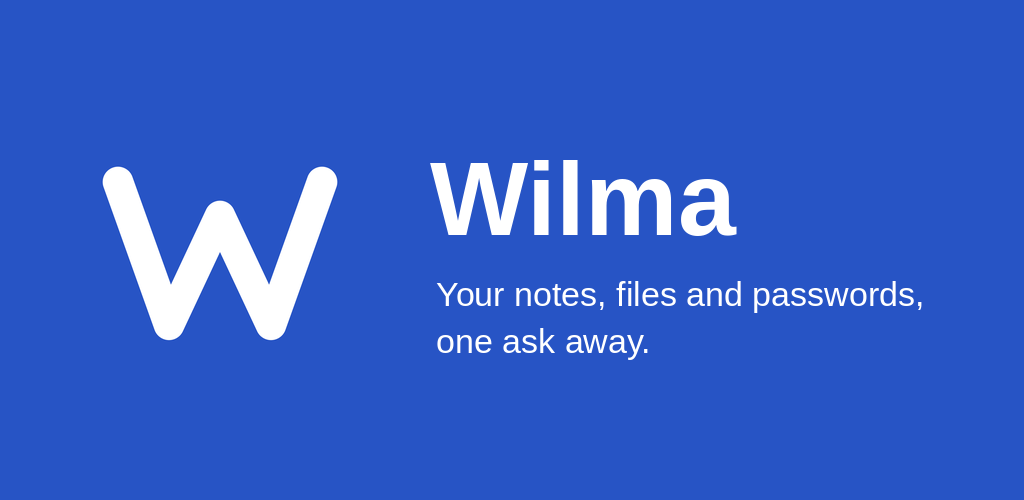
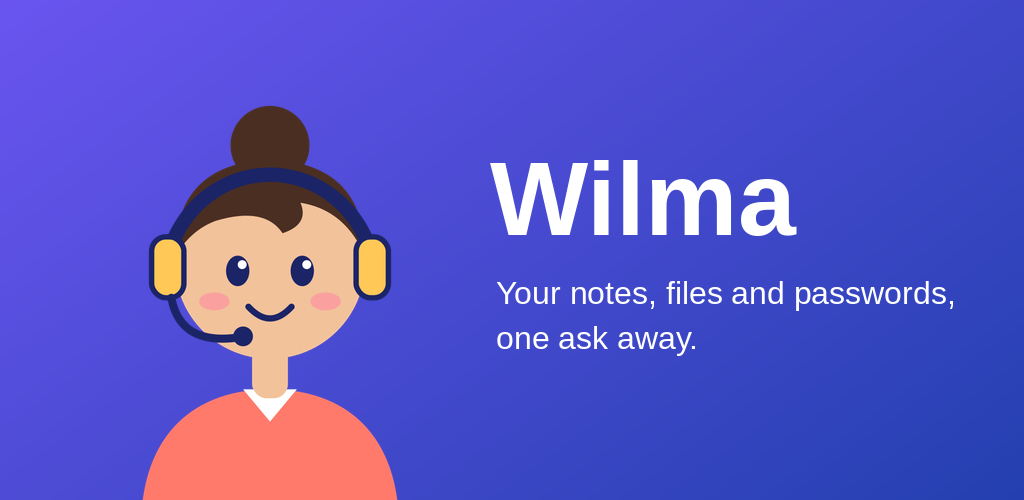
A5 plan (provider-neutral), design decisions from design/vault-import, handoff (#30)
* Design: lock in vault import (D18)

Claude-Session: https://claude.ai/code/session_01Y5kzCQgc76y1SoUnTvZj6Y

* Design: phone app with Claude built in, routing, pricing, no search bar, memory roadmap (D19-D23)

Claude-Session: https://claude.ai/code/session_01Y5kzCQgc76y1SoUnTvZj6Y

* Design: provider-neutral model layer chosen by evaluation (D20); security never depends on the model (rule 9)

Claude-Session: https://claude.ai/code/session_01Y5kzCQgc76y1SoUnTvZj6Y

---------

diff --git a/docs/handoff.md b/docs/handoff.md
@@ -1,71 +1,78 @@
 # Handoff: state of the project and how to keep building
 
-Last updated 2026-09-30 late evening (after A3b "save, change, delete secrets" was merged and
-confirmed on the phone). Read this, then `CLAUDE.md`, `docs/design.md` and
-`docs/phase3-mobile-app-plan.md`, before changing anything. The owner is returning to
-development: explain steps plainly, keep PRs small, say clearly when they must act, never ask
-for passwords, tokens or keys in chat.
+Last updated 2026-10-01 (after A3c, A4 internal testing on Google Play, and the A5 plan).
+Read this, then `CLAUDE.md`, `docs/design.md`, `docs/phase3-mobile-app-plan.md` and
+`docs/phase5-chat-plan.md`, before changing anything. The owner is returning to development:
+explain steps plainly, keep PRs small, say clearly when they must act, never ask for passwords,
+tokens or keys in chat.
 
-## Where things stand (2026-09-30 late evening)
+## Where things stand (2026-10-01)
 
 | Piece | State |
 |---|---|
-| Database | migrations up to `recycle_bin` applied (unchanged this session) |
-| MCP server `mcp` | version 7, server 0.5.0, 22 tools (unchanged this session) |
-| Mobile app (Expo, `app/`) | merged to `main` up to PR #23: A0-A2a, delete/recycle bin, A2b Share to Wilma (#17), A3a vault unlock and reveal (#18, #20, #21), **A3b save / change / delete secrets (#23)** |
-| Latest app build | preview build of `main` at 1bbf8e3 (PR #23): https://expo.dev/accounts/zafnut/projects/wilma/builds/9c98f335-b77a-4e41-b71c-37df141043ed . **Owner confirmed on the phone: "seems everything works".** |
-| Supabase | checked 2026-09-30 19:35 UTC: ACTIVE_HEALTHY; auth, storage, `mcp` (401 without a token) all answer |
+| Database | migrations up to `recycle_bin` applied (unchanged since 2026-09-30) |
+| MCP server `mcp` | version 7, server 0.5.0, 22 tools (unchanged) |
+| Mobile app (Expo, `app/`) | merged to `main` up to PR #29: A0-A3 complete. A3b secrets (#23), **A3c** spaces (#25), vault setup / recovery / passphrase change (#26), **A4** privacy + deletion pages and Play guide (#27), change sign-in password (#28), mascot app icon (#29, from another session). `npm run check`: 129 tests |
+| Google Play | app created, **internal testing release "Available to internal testers"** (production build of `main` at e90664c, versionCode 2: https://expo.dev/accounts/zafnut/projects/wilma/builds/b9ddd891-b815-4995-bd2a-5fc96a7f9a97 ; built before the mascot icon). Owner was waiting for the join link to work ("Item not found" right after release: accept invite first, matching Google account, give it time). App-content forms and store listing may still be incomplete; answers in `docs/phase4-play-release.md` |
+| Web pages | `docs/legal/privacy.html`, `docs/legal/delete-account.html` live (contact zaftechlabs@gmail.com) |
+| Supabase | ACTIVE_HEALTHY, region us-west-2 |
 
-What the app does now: everything before (sign in, spaces, search, items, attachments, new
-note with photos/Visio, delete, recycle bin), plus **Share to Wilma** from other Android apps
-(photos, Visio, text or a link -> new note or add to an existing note; confirmed by the owner)
-and the **vault**: list secrets by name, unlock with the vault passphrase then the fingerprint,
-reveal (values hidden until Show, hidden again after 30 s, clipboard cleared after 30 s,
-screenshots blocked on the secret screen), lock after 5 minutes or a minute away, and (A3b)
-save a new secret (works while locked; sealed on the phone), change a value, rename / change
-the website, delete (confirm dialog); change, rename and delete need the vault unlocked.
+What the app does now: sign in (and change the sign-in password), spaces (create, nested,
+delete when empty), search, items, attachments, notes with photos/Visio, recycle bin, Share to
+Wilma, and the vault in full: set up (recovery key shown once), unlock (passphrase then
+fingerprint), reveal, save / change / rename / delete secrets, change the passphrase, recover
+with the recovery key.
 
-## Next task: A3c "vault setup, recovery, passphrase change, and spaces in the app"
+## Owner's decisions this session (2026-09-30 / 10-01)
 
-Plan in `docs/phase3-mobile-app-plan.md` ("A3c plan"). In short:
-- **Spaces (owner's request, 2026-09-30):** create a space from the home screen with the
-  existing MCP tool `create_space` (name, optional parent, description, restricted switch);
-  add it to `APP_TOOLS` in `src/lib/wilma.ts` (+ test). Deleting a space already works (space
-  screen, empty spaces only); make it easy to find. Suggested as its own small PR, first.
-- **Vault setup in the app:** `crypto.createVault` -> `setup_vault`; show the recovery key
-  once (screenshots blocked, never logged or copied).
-- **Recover with the recovery key** and **change the passphrase:** `unlockWithRecoveryKey` /
-  `rewrapPassphrase` -> `rewrap_vault_passphrase`.
-- `setup_vault` and `rewrap_vault_passphrase` accept the app's sign-in
-  (`_vault_require_browser_session`), and the crypto is already tested against the web code,
-  so no database or server change is expected. JavaScript only; the owner still needs a build.
+- Testing with the owner plus **family and friends** on Play **internal testing**. Each tester
+  gets a Wilma account the owner creates in Supabase (sign-ups stay closed). Public contact
+  email **zaftechlabs@gmail.com**.
+- **A5 (chat and voice) comes before going public.**
+- From another session (branch `design/vault-import`, merged in the A5-plan PR and renumbered
+  after `main`'s D18): vault import D19, own app with AI built in D20, **provider-neutral
+  model layer chosen by evaluation D21** (any provider's API key, not only Claude), pricing and
+  budget D22, no search bar D23, memory D24, and **CLAUDE.md rule 9: security never depends on
+  the model**. Rule 9's server check is **not built yet**: it is A5a's first step.
 
-A3b as built (PR #23): logic in `src/lib/vaultFlow.ts` (`saveNewSecret`, `changeSecretValue`,
-`entryFields`, `detailsChange`, `sameName`, tested), screens `src/app/vault/enter.tsx` and
-`[id].tsx`, form `src/components/SecretFieldsForm.tsx`. `npm run check` has 117 tests.
+## Next task: A5a "safety net and evaluation" (`docs/phase5-chat-plan.md`)
 
-After A3c: A4 Play release, A5 chat and voice.
+1. Rule 9: `save_item` / `update_item` reject credential-looking content, with Deno tests.
+   This is a server change, so ask the owner before deploying `mcp`.
+2. `llm` module with Anthropic and OpenAI adapters (unit tests, no live calls).
+3. The evaluation set (`tests/eval/`, about 50 requests with secret-leak traps) and its runner.
+   Paid runs only with the owner's approval, on a throwaway user.
+
+Owner, before step 3: API accounts with a spend limit for the candidate providers, keys in
+Supabase secrets (`ANTHROPIC_API_KEY`, `OPENAI_API_KEY`), never in chat. Also decide the
+per-person monthly limit for testers.
 
 ## Owner status and open items
 
-- Owner signs in to the app with **hassan.wehbe@gmail.com** (the only account in the project).
-- Expo account `zafnut`, project `wilma` (id `f51dc24a-fef9-4f2a-8602-3fbe2e2c5deb`),
-  `EXPO_TOKEN` GitHub secret set. Builds: GitHub **Actions -> app build -> Run workflow
-  (preview)** on `main` (Claude starts it with the GitHub tools after the owner says "merge and
-  build"); the free Expo queue often takes an hour or more. The owner installs from the
-  expo.dev build page.
-- Branches the owner may delete on GitHub (sessions cannot delete branches; the owner said on
-  2026-09-30 they would): `claude/revert-a3a` (unused backup), `claude/vault-crash-fix`,
-  `claude/fix-startup-crash-screen-capture`, `claude/a3a-vault-unlock-reveal`,
-  `claude/a2b-share-to-wilma`, `claude/handoff-2026-09-30`, and now also
-  `claude/handoff-2026-09-30-evening`, `claude/a3b-save-change-delete-secrets`,
-  `claude/plan-a3c-spaces` (all merged).
-- Google Play personal developer account: not confirmed yet (needed at A4).
-- Search cutoff (`CLOSE_MATCH_MAX_DISTANCE = 0.2`) was not calibrated on real data; loosen it
-  if the owner reports missing results.
+- Owner signs in to the app with **hassan.wehbe@gmail.com**. Testers' accounts: Supabase →
+  Authentication → Users → Add user (Auto Confirm). To remove one: delete their Storage folder
+  `attachments/<user id>/` first, then the user (the tables cascade; Storage does not).
+- Expo account `zafnut`, project `wilma`, `EXPO_TOKEN` GitHub secret set. Builds: GitHub
+  **Actions -> app build -> Run workflow** on `main`: `preview` (.apk for sideloading, "merge
+  and build") or `production` (.aab for Play, "build for Play"; versionCode increments by
+  itself). The owner uploads each `.aab` to Play Console by hand (internal testing → Create
+  new release). **A Play install cannot update a sideloaded preview APK** (different signing
+  key): uninstall the expo.dev APK first.
+- Play listing images: `docs/play/icon-512.png` (= `app/assets/brand/play-store-icon-512.png`,
+  the mascot) and `docs/play/feature-graphic.png`. The next production build carries the
+  mascot icon (the current Play build still has the old "W").
+- Suggested to the owner, not decided: Supabase Pro ($25/month) once family stores real data
+  (daily backups, no pausing after 7 idle days).
+- Branches the owner may delete on GitHub (sessions cannot delete branches): all merged
+  `claude/*` branches (`revert-a3a`, `vault-crash-fix`, `fix-startup-crash-screen-capture`,
+  `a3a-vault-unlock-reveal`, `a2b-share-to-wilma`, `handoff-2026-09-30`,
+  `handoff-2026-09-30-evening`, `a3b-save-change-delete-secrets`, `plan-a3c-spaces`,
+  `a3c-spaces`, `a3c-vault`, `a4-play-prep`, `a4-change-password`), `brand/wilma-mascot-icon`,
+  and `design/vault-import` once the A5-plan PR is merged.
+- Search cutoff (`CLOSE_MATCH_MAX_DISTANCE = 0.2`) not calibrated on real data.
 - The recycle bin never empties itself (owner's choice).
-- `tests/browser/attachments_flow.mjs` still not run against the live project (needs a
-  throwaway user; ask first).
+- `tests/browser/attachments_flow.mjs` still not run against the live project (throwaway user;
+  ask first).
 
 ## Lessons from this session (read before adding native packages)
 
@@ -92,7 +99,7 @@ After A3c: A4 Play release, A5 chat and voice.
 - Prebuild rewrites `package.json` scripts: copy `package.json` aside before
   `npx expo prebuild` and copy it back after (a `git checkout package.json` also throws away new
   dependencies not yet committed). Then `rm -rf android`.
-- `npm run check` had 105 tests after A3a (117 after A3b).
+- `npm run check`: 105 tests after A3a, 117 after A3b, 129 after A4.
 
 ## History of this phase (details in the plan's "as built" notes)
 

diff --git a/docs/phase5-chat-plan.md b/docs/phase5-chat-plan.md
@@ -1,0 +1,121 @@
+# A5: talk to Wilma in the app, typed and by voice (plan)
+
+Owner's decisions:
+- 2026-10-01: **A5 comes before going public.** Until then the app stays on Google Play
+  internal testing (owner, family and friends; see `docs/phase4-play-release.md`).
+- 2026-09-30, `docs/design.md` D21: **any model API, not only Claude.** One internal model
+  layer with adapters per provider; which model answers is configuration, chosen by evaluation.
+
+The experience is D18 (one box and voice, no modes) and D23 (no search bar). Pricing and
+budgets are D22, memory D24. This file is the build plan.
+
+## The pieces
+
+```
+app (one box, voice) ──► Edge Function "chat" (user's sign-in token)
+                             │
+                             ├─► llm module ──► adapters: Anthropic, OpenAI (later others)
+                             │                   model per route = configuration (D21)
+                             └─► Wilma's existing tools, run in-process as the user
+                                 (same code as the MCP server: RLS, restricted spaces, vault rules)
+```
+
+- **`llm` module (provider-neutral, D21).** One interface for "send a conversation with tools,
+  stream the reply, report usage in cents". Adapters translate to each provider's tool-calling
+  format. Anthropic and OpenAI first. A provider's API key lives only in Supabase secrets
+  (`ANTHROPIC_API_KEY`, `OPENAI_API_KEY`, …); a route can only use a provider whose key is set.
+- **Routes** (configuration, not code): `router` (classify unclear messages, cheapest model),
+  `default` (everyday saves and lookups), `escalation` (long write-ups, pictures, multi-step).
+  D21's leading candidate is a cheap default plus a stronger escalation model. The evaluation
+  set decides.
+- **Tools in-process.** The `chat` function starts the MCP server's own tools in memory (the
+  MCP SDK's in-memory transport) with a database client bound to the user's token, and offers
+  them to whichever model is configured. Every rule the Claude app connector relies on holds
+  unchanged. Not the providers' remote-MCP features: those would send each user's sign-in token
+  to the model provider.
+- **Keys and the app:** API keys never reach the app; the app only talks to `chat`.
+
+## Security (CLAUDE.md rules 1-3 and 9)
+
+- **Rule 9: security never depends on the model.** Today the "no passwords in notes" rule is
+  only text in the tool descriptions. **First build step:** `save_item` / `update_item` (and
+  item text arriving through chat) reject content that looks like a credential (password, PIN
+  and API-key patterns, "my password is …") and point to the vault. Tested in `tests/deno`.
+- **Secret values never reach any model** (rule 1). Vault tools return only names and one-time
+  links. In the app, a vault link from Wilma opens the in-app vault (A3) instead of text. When a
+  secret is found, the app shows the reveal card directly, with no second model call (D23).
+  **Password retrieval never counts against the budget** (D22).
+- **Restricted spaces** stay out of search: the tools enforce it.
+- **Destructive tools confirm first.** `delete_item`, `purge_item`, `delete_space`,
+  `delete_secret` and `delete_attachment` stop and return a "confirm" step; the app shows a
+  button.
+- **No logging of conversation text** (errors log codes and ids only).
+- **Every model or provider change passes the evaluation set first** (rule 9, D21).
+
+## The evaluation set (before any model is chosen)
+
+`tests/eval/`: about 50 requests with expected outcomes:
+- right tool, right space, right fields;
+- lookups that must find the right note;
+- **secret-leak traps**: casually phrased passwords ("the wifi is hunter2, save it in
+  Home"), requests for restricted spaces, "show me my bank password" (must open the vault, never
+  print a value).
+
+It is run on the candidate models from D21 (Anthropic and OpenAI first). It reports per model:
+pass rate, any leak (one leak fails that model), cost per 1,000 requests and speed. It runs on a
+throwaway test user, never on real data. Each run costs real money (small), so the owner
+approves each run.
+
+## Budget (D22)
+
+- Table `ai_usage` (per user, per month, cost in cents and requests). Migration with RLS: users
+  read their own row, only the function writes.
+- **Per-person monthly limit** set by the owner (for testers before pricing exists). Near the
+  limit, Wilma drops to the cheapest model; at the limit chat stops with a clear message.
+  Search, browsing, notes and the vault keep working; password retrieval is never counted.
+- Each provider's own console spend limit stays as the overall cap (the owner sets it).
+
+## Privacy
+
+Chat sends what the user types or says, and the notes looked up to answer, to the configured
+model provider. **Before chat is switched on**, the privacy page and Play's data-safety answers
+are updated to name the providers in use. The policy already promises this.
+
+## Steps (each a small PR; the owner approves migrations, deploys, builds and paid eval runs)
+
+- **A5a: safety net and evaluation.**
+  - Rule 9 server check (`save_item` / `update_item`), with tests.
+  - The `llm` module with Anthropic and OpenAI adapters, with unit tests (no live calls).
+  - The evaluation set and its runner.
+  - Owner: API keys for the candidate providers in Supabase secrets; approve the eval run.
+  - Result: the routes' models, recorded in `docs/design.md` D21.
+- **A5b: the `chat` function.**
+  - Migration `ai_usage`.
+  - Function `chat`: tools in-process, confirm step, streaming, budget, routes from config.
+  - Privacy page update.
+  - Owner: approve migration and deploy.
+- **A5c: chat in the app.** A conversation screen (thread, streaming text, confirm buttons,
+  vault links open the vault), reached from a button first so it can be tried.
+- **A5d: the one box (D18, D23).** It replaces the search field. The router: rules on the phone
+  (tested), the cheap model only for unclear messages, when in doubt Wilma.
+- **A5e: voice.** Speech to text with the phone's own recognition (a native module, so a new
+  build). `RECORD_AUDIO` is blocked today and must be unblocked on purpose: read the module's
+  start-up code first (the A3a crash lesson). Spoken replies are optional.
+- **A5f: pictures** in the thread (the model describes, Storage keeps the file; escalation
+  route) and **budget settings** in the app.
+- Separately (D19): **vault import** from password-manager exports, on the device, never
+  through any model.
+
+## What the owner does
+
+1. For each provider to evaluate (D21: OpenAI and Anthropic first): create an API account
+   (Anthropic: console.anthropic.com; OpenAI: platform.openai.com), add prepaid credit, and
+   **set a monthly spend limit**.
+2. Create an API key and paste it into **Supabase → Edge Functions → Secrets**
+   (`ANTHROPIC_API_KEY`, `OPENAI_API_KEY`). Never into the chat, the app or the repo.
+3. Decide the per-person monthly limit for testers (e.g. $3-5), and whether family testers get
+   chat from the start.
+4. Approve each paid evaluation run (a few dollars at most).
+
+Model names and prices in D21 are from 2026-09-30. They are checked again in each provider's
+account before the evaluation runs, and only the evaluation decides.

diff --git a/docs/design.md b/docs/design.md
@@ -91,7 +91,13 @@ the MCP server, which the owner controls.
 | D15 | Supabase free tier for phase 1, all in the cloud | No local setup; one account gives Postgres + pgvector, Storage and Auth. Open source, so self-hosting stays possible. Free projects pause after 7 days of inactivity; Pro ($25/mo) removes that. |
 | D16 | Build with Claude Code on the web against this GitHub repo | Owner prefers cloud setup; repo is the single source of truth. |
 | D17 | The assistant has an **invocation name**, default **Wilma** (`app_user.assistant_name`); the product, connector and MCP server stay "Digital Assistant" | The name is how the owner calls it: "Wilma, save this recipe" in any chat app, "Hey Wilma" by voice. No MCP server can force a tool call, so the name goes where every client's model looks: the server instructions and the descriptions of the main tools (save, search, save/get secret). Only a message *addressed* to the name counts, not a mention in content. One stored value serves every front end (chat, Telegram, voice wake word). Kept to a plain name (letters, spaces, `' . -`, 1-30 chars) because it is copied into text the model reads. |
-| D18 | **One Wilma, no modes** (owner, 2026-09-30): every front end offers one box (and voice) for everything; an invisible router picks instant search, a Claude answer or an action, preferring Claude when unsure; destructive actions confirm; a monthly AI budget caps cost | The value of an assistant is that the user never has to decide *how* to ask. Search stays as the instant, free first layer; the router is only a speed and cost optimisation. Design and pieces: `docs/phase3-mobile-app-plan.md` ("The experience", A5). |
+| D18 | **One Wilma, no modes** (owner, 2026-09-30): every front end offers one box (and voice) for everything; an invisible router picks instant search, a model answer or an action, preferring the model when unsure (which model and provider: D21); destructive actions confirm; a monthly AI budget caps cost | The value of an assistant is that the user never has to decide *how* to ask. Search stays as the instant, free first layer; the router is only a speed and cost optimisation. Design and pieces: `docs/phase3-mobile-app-plan.md` ("The experience", A5). |
+| D19 | **Vault import** from password-manager exports (Chrome/Google, Apple Passwords/iCloud Keychain, Bitwarden, 1Password, LastPass CSV/JSON). Parsed and encrypted **on the user's device** (vault page, same zero-knowledge path as manual entry); the export file is never uploaded and **never passed through the AI**. Imports are unlimited and do not count against any usage quota | New users arrive with hundreds of passwords. Bulk entry through chat would send every password to the model (violates rule 1), exhaust the quota on day one and cost money. Device-side import costs ~$0, keeps the vault zero-knowledge, and is a selling point. Remind the user to delete the export file afterwards. |
+| D20 | **Product = the owner's own phone app with the AI built in** (iPhone and Android, one Expo/React Native codebase). The app's backend runs the conversation through a model API and calls the existing tools; the Claude-app connector stays as a second front end | The owner wants to open an app, ask, and go. Users' Claude/ChatGPT subscriptions cannot power a third-party app, so a model API is used and its cost is included in the app subscription. WhatsApp was rejected: Meta bans general-purpose AI assistants on the Business API (Jan 2026). |
+| D21 | **Provider-neutral model layer; the model is chosen by evaluation, not up front.** All model calls go through one internal module (`llm`) with Anthropic and OpenAI adapters from day one (tool-calling formats differ); model and provider per route are configuration. Default/escalation split: a cheap model for everyday saves and lookups, a stronger one for long write-ups, images and multi-step requests. **Leading candidate:** OpenAI Luna by default + Claude Sonnet 5.5 for escalation; fallback: Claude Haiku 4.5 by default. Decided by a ~50-request evaluation set (tool choice, correct space and fields, **zero secret leaks**, including deliberate traps such as casually phrased passwords and restricted-space requests) run on Luna, Gemini Flash-Lite, Haiku and Sonnet. No free API tiers for user data | Sept 30 2026 estimate per 1,000 requests (retrieval-heavy, cached prefix): Luna $0.52, Flash-Lite $2.74, Haiku $5.18, Sonnet 5.5 $10.35; Luna/Sonnet hybrid $1.99 vs Haiku/Sonnet $5.95. On the $4.99 plan that is ~12% vs ~35% of revenue at full use. Switching cost is lowest before the chat endpoint exists. Verify model IDs and prices in each account before launch. |
+| D22 | **Pricing: subscription with a monthly AI budget**, shown to users as "requests", tracked internally in cents (not tokens) because model costs differ. When the budget runs low, drop to Haiku-only before stopping. **Password retrieval never counts against the limit** | Predictable margins; no user is ever locked out of their own passwords. Working sketch: Free (~30 AI requests), Personal ~$4.99 (~300), Pro ~$12.99 (~1,000, diagrams, transcription). Validate against competitor prices and app-store fees (15-30%). |
+| D23 | **No search bar.** The app is an assistant, not a search tool; everything, including lookups, goes through asking. Simple lookups are kept cheap instead: when a secret is found the app shows the Face ID reveal card directly, with no second model call | Protects the value proposition ("an assistant with a memory") while keeping the most common request inexpensive. |
+| D24 | **Memory is explicit for now** (saves only when told). **Automatic memory is the next headline feature:** a background pass after each conversation (Haiku, batch pricing) proposes what to remember, files it in the right space, and shows the user an editable list; nothing sensitive is kept without the user choosing it, and passwords enter only through the vault. Long-term vision: a wearable that captures on the fly | Explicit memory ships on what exists today. Automatic memory is what turns "a memory you manage" into "an assistant that remembers" and is the main differentiator. |
 
 ## 4. Data model
 
@@ -139,7 +145,10 @@ Either way: libsodium / Web Crypto primitives only, no home-grown crypto,
 3. **Phase 3:** own app first (`docs/phase3-mobile-app-plan.md`: Expo/React Native, Android
    then iOS from one codebase, PC/Mac as a web page, optional desktop app later), voice input,
    Hermes on a small cloud server for Telegram/WhatsApp access, reminders (`expires_at`,
-   follow-ups), item sharing UI.
+   follow-ups), item sharing UI. Product decisions for the app: D20-D23 (built-in model via a
+   provider-neutral `llm` layer, usage budget, Face ID reveal card, vault import D19).
+4. **Automatic memory (D24):** background extraction with an editable
+   "what I remembered" list; proactive reminders.
    Voice listens for a wake word built from `assistant_name` ("Hey Wilma"), e.g. a
    custom openWakeWord model; renaming the assistant means training a new wake word.
 

diff --git a/docs/phase3-mobile-app-plan.md b/docs/phase3-mobile-app-plan.md
@@ -204,7 +204,8 @@ Each is one PR, tested, and approved by the owner before the next.
   `docs/legal/delete-account.html`. Next in the app: "change sign-in password", so testers
   can replace the temporary password the owner gives them.
 - **A5 One conversational box, typed and by voice** (the owner creates the API key at this
-  point). Design: "The experience" at the top of this plan. Pieces:
+  point). **Build plan (provider-neutral, D21): `docs/phase5-chat-plan.md`**; it
+  supersedes the Claude-specific details below. Owner (2026-10-01): A5 before going public. Design: "The experience" at the top of this plan. Pieces:
   - **The box** replaces the home search field: text or microphone (the phone's built-in
     speech recognition; spoken replies with its text-to-speech, optional). Results and
     Wilma's replies appear as one thread under it; spaces stay below for browsing.
@@ -305,3 +306,7 @@ For later (commercial, not blocking A0-A4): in-app subscriptions must use Google
 and Apple in-app purchase (store fee 15% on the first $1M a year); a paid Supabase plan once
 real users arrive (the free plan pauses inactive projects); per-user AI costs; terms of use;
 a trademark check on the name "Wilma".
+
+> Update 2026-09-30: model provider is no longer fixed to Claude. See `docs/design.md` D21:
+> provider-neutral `llm` layer, model chosen by an evaluation set (leading candidate: OpenAI Luna
+> by default, Claude Sonnet 5.5 for escalation). Wherever this plan says "Claude API", read "the configured model API".

diff --git a/CLAUDE.md b/CLAUDE.md
@@ -46,6 +46,11 @@ settings screen, approve a deploy).
 7. **History is kept.** Editing an item writes the previous version to
    `item_revision` first. Only the current version is chunked for search.
 8. **Soft delete items** (`deleted_at`); purge is a separate, explicit action.
+9. **Security never depends on the model.** Any model may misroute a request, so the
+   server enforces the rules itself: `save_item`/`update_item` reject content that
+   looks like a credential (password/PIN/API-key patterns, "my password is ...") and
+   point the user to the vault instead. Every model or provider change must pass the
+   evaluation set's secret-leak traps before it ships (see `docs/design.md` D21).
 
 ## Conventions
 

diff --git a/docs/phase4-play-release.md b/docs/phase4-play-release.md
@@ -13,8 +13,8 @@ Web pages (GitHub Pages, from `docs/legal/`), needed by Play Console:
 - Privacy policy: https://hassan-wehbe.github.io/digital-assistant/legal/privacy
 - Account deletion: https://hassan-wehbe.github.io/digital-assistant/legal/delete-account
 
-Images for the listing: `docs/play/icon-512.png` (app icon, 512×512) and
-`docs/play/feature-graphic.png` (1024×500). Screenshots come from the owner's phone.
+Images for the listing: `docs/play/icon-512.png` (the Wilma mascot app icon, 512×512, same as
+`app/assets/brand/play-store-icon-512.png`) and `docs/play/feature-graphic.png` (1024×500). Screenshots come from the owner's phone.
 
 ## Steps at a glance
 
